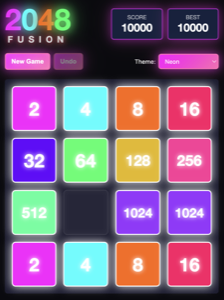
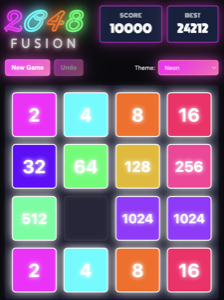
Improve Neon theme fonts and update screenshot
- Use Neonderthaw font for 2048 title
- Use Tilt Neon font for Fusion subtitle
- Make Fusion text white with pink glow
- Use system font for tiles and instructions
- Add subtle flicker animation to title
- Update neon screenshot

diff --git a/styles.css b/styles.css
@@ -59,6 +59,7 @@
     --tile-shadow: 0 0 20px currentColor;
     --title-color: #e94560;
     --score-bg: #16213e;
+    --font-family: 'Monoton', cursive;
     --tile-radius: 8px;
     --tile-font-weight: bold;
     --cell-border: 1px solid rgba(255, 255, 255, 0.1);
@@ -760,11 +761,19 @@ body {
 .theme-neon .tile {
     box-shadow: var(--tile-shadow);
     text-shadow: 0 0 10px currentColor;
+    font-family: -apple-system, BlinkMacSystemFont, 'Segoe UI', Roboto, sans-serif;
+}
+
+.theme-neon .instructions {
+    font-family: -apple-system, BlinkMacSystemFont, 'Segoe UI', Roboto, sans-serif;
 }
 
 .theme-neon .title-digits {
+    font-family: 'Neonderthaw', cursive;
+    font-size: 5rem;
+    letter-spacing: 0.02em;
     text-shadow: 0 0 20px var(--title-color), 0 0 40px var(--title-color);
-    animation: neon-flicker 2s infinite alternate;
+    animation: neon-flicker 3s infinite;
 }
 
 .theme-neon .title-digits .d-2 { color: #ff00ff; text-shadow: 0 0 20px #ff00ff, 0 0 40px #ff00ff; }
@@ -773,9 +782,11 @@ body {
 .theme-neon .title-digits .d-8 { color: #00ff66; text-shadow: 0 0 20px #00ff66, 0 0 40px #00ff66; }
 
 .theme-neon .title-fusion {
+    font-family: 'Tilt Neon', sans-serif;
+    font-size: 1.8rem;
     color: #fff;
-    text-shadow: 0 0 10px #e94560, 0 0 20px #e94560;
-    letter-spacing: 0.5em;
+    text-shadow: 0 0 10px #fff, 0 0 20px #ff69b4, 0 0 40px #ff69b4;
+    letter-spacing: 0.3em;
 }
 
 .theme-neon .btn {
@@ -804,10 +815,14 @@ body {
 }
 
 @keyframes neon-flicker {
-    0%, 100% { opacity: 1; }
-    50% { opacity: 0.95; }
-    52% { opacity: 0.9; }
-    54% { opacity: 1; }
+    0%, 18%, 22%, 25%, 53%, 57%, 100% {
+        opacity: 1;
+        text-shadow: 0 0 20px currentColor, 0 0 40px currentColor, 0 0 60px currentColor;
+    }
+    20%, 24%, 55% {
+        opacity: 0.7;
+        text-shadow: 0 0 10px currentColor;
+    }
 }
 
 /* Minesweeper special styling */

diff --git a/index.html b/index.html
@@ -6,7 +6,7 @@
     <title>2048</title>
     <link rel="preconnect" href="https://fonts.googleapis.com">
     <link rel="preconnect" href="https://fonts.gstatic.com" crossorigin>
-    <link href="https://fonts.googleapis.com/css2?family=Caveat:wght@400;700&family=Indie+Flower&family=Patrick+Hand&family=Pacifico&family=Dancing+Script:wght@400;700&family=Press+Start+2P&display=swap" rel="stylesheet">
+    <link href="https://fonts.googleapis.com/css2?family=Caveat:wght@400;700&family=Indie+Flower&family=Patrick+Hand&family=Pacifico&family=Dancing+Script:wght@400;700&family=Press+Start+2P&family=Monoton&family=Bebas+Neue&family=Great+Vibes&family=Neonderthaw&family=Tilt+Neon&display=swap" rel="stylesheet">
     <link rel="stylesheet" href="styles.css">
 </head>
 <body>
